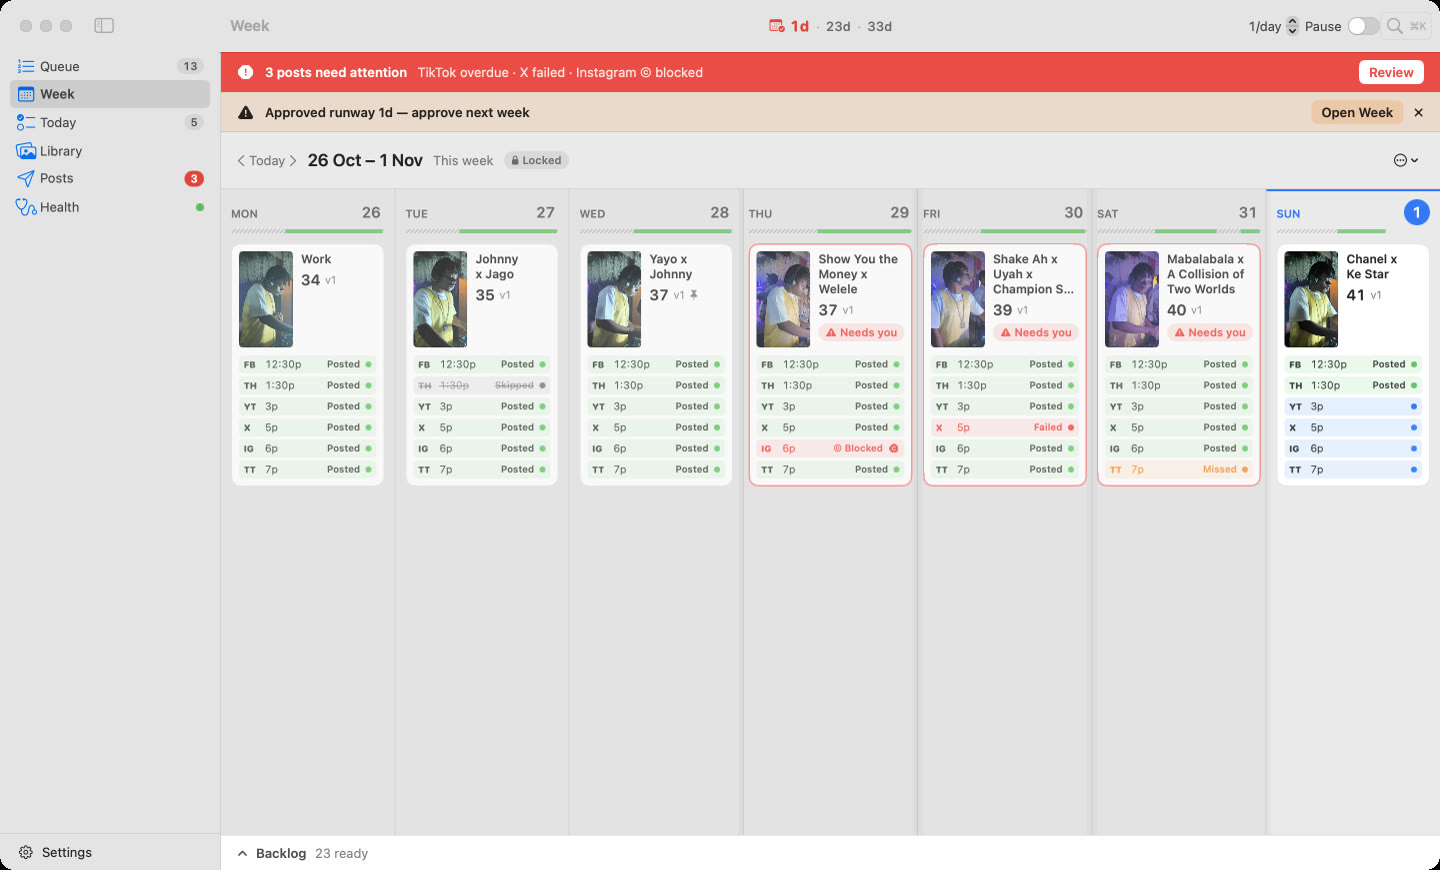
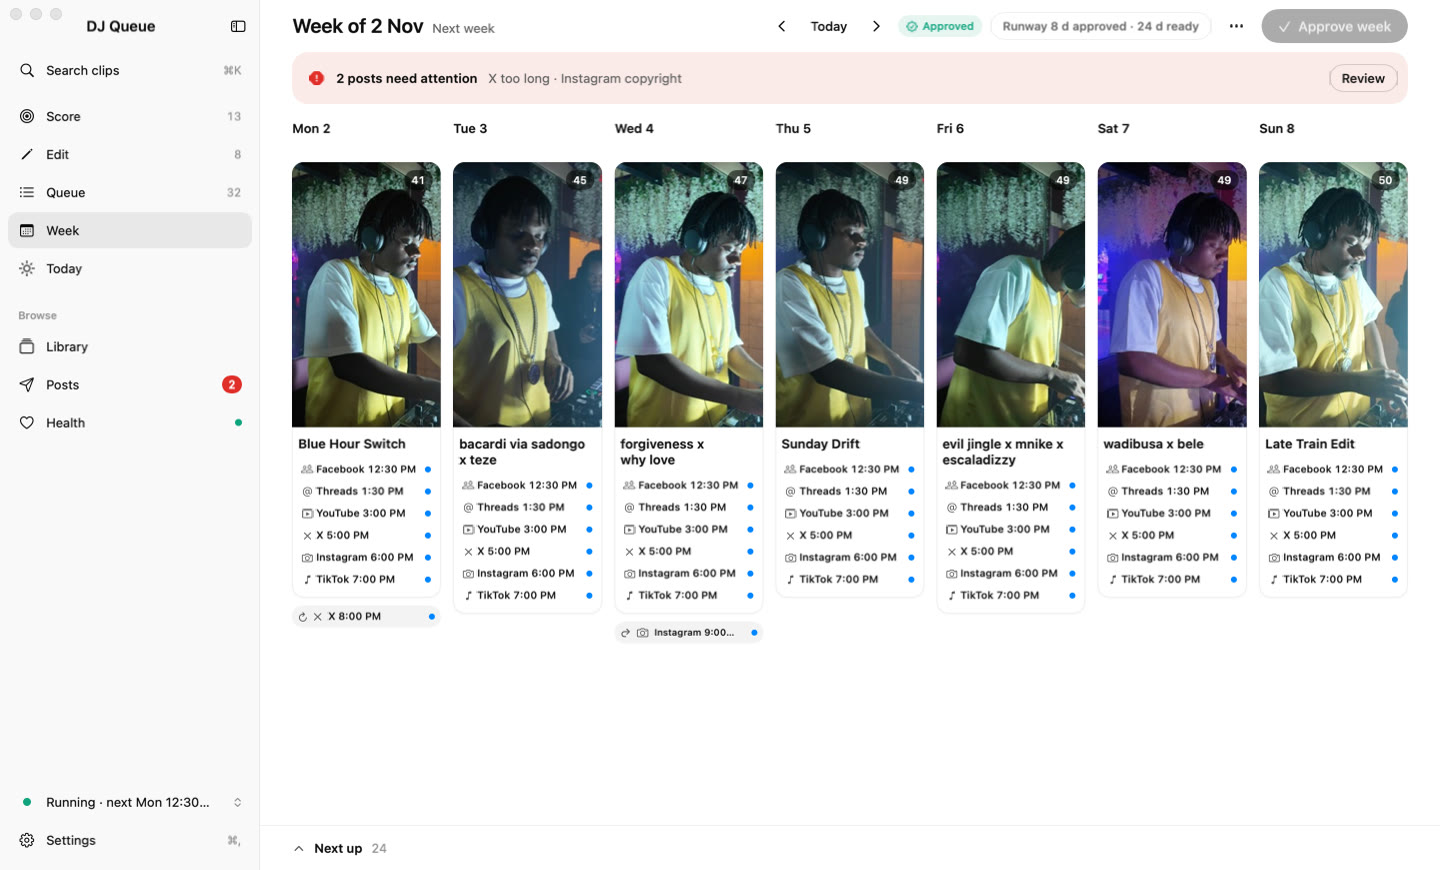
README: round-2 redesign — pipeline, design system, no in-app intelligence, agent access, new screenshots

diff --git a/README.md b/README.md
@@ -2,28 +2,36 @@
 
 A native macOS app that runs my DJ content pipeline: it turns raw 4K clips from a DJ set into vertical short-form videos, plans what posts where and when across six platforms, renders the final files in the background, and tracks every post — including missed slots, failures and copyright blocks.
 
-Built for my own use as DJ Lovd (TikTok, Instagram, Facebook, YouTube Shorts, Threads, X). SwiftUI + AVFoundation + SQLite + ffmpeg, ~18k lines, 142 automated tests. Designed, specified and shipped in one day with a team of AI coding agents that I directed — see [How it was built](#how-it-was-built).
+Built for my own use as DJ Lovd (TikTok, Instagram, Facebook, YouTube Shorts, Threads, X). SwiftUI + AVFoundation + SQLite + ffmpeg, 187 automated tests. Designed, specified and shipped with a team of AI coding agents that I directed — v1 in one day, then a full redesign the next — see [How it was built](#how-it-was-built).
 
 ![Queue](docs/screenshots/queue.jpg)
 
 ## What it does
 
+The app follows a clip's life — **Score → Edit → Queue → Week → Today** — with one job and one primary action per screen, on a calm, rounded design system modelled on ChatGPT's look and shadcn/ui component anatomy.
+
 - **Intake** — watches my session folders; every clip exported from my CapCut markers shows up automatically. Renamed files are re-found by content fingerprint; deleted files are flagged, never lost.
-- **Score & queue** — I score each clip 0–100; the queue orders the backlog worst → best (to warm up new accounts) or best → worst.
-- **Vertical editor** — crop a 4K 16:9 frame to 9:16, trim to my original markers, add overlay text (prefilled from the clip's tag), captions with per-platform character limits and auto hashtags, a cover frame, and versions for reposts.
+- **Score & queue** — I score each clip 0–100 on a large autoplaying preview; the queue orders the backlog worst → best (to warm up new accounts) or best → worst. Every list has Cards / Grid / Single / List views with muted autoplay from small background-generated proxies.
+- **Vertical editor** — crop a 4K 16:9 frame to 9:16, trim starting on my original markers (with grace to extend), overlay text, captions with per-platform limits, a cover frame, versions for reposts, multi-platform safe zones and realistic phone previews of each platform's UI with the real caption and handle.
+- **No intelligence in the app, by design** — the app is a UI over scripts. Song names and titles come from metadata my agents write (`title_suggestions` in the manifest) and show up as chips; when a name is ambiguous, *Ask an agent* copies a ready-made prompt. Outside agents read and change everything through the `djq` CLI (JSON in/out), documented as a Claude skill.
+- **Defaults + bulk editing** — new-clip defaults for frame, trim, text, cover, captions and platforms (clips store only overrides, so changing a default updates every untouched clip); bulk actions with a confirmation sheet showing exactly what changes and one-step undo.
 - **Weekly approval** — the app proposes the next 7 days; I drag, swap, pin and approve. Only approved weeks ever post.
 - **Background engine** — runs at login, renders the approved week ahead of time (1080×1920 H.264, loudness-normalised to −14 LUFS), and notifies me when each platform post is due.
 - **Manual publisher (phase 1)** — a Today screen: drag the file into the upload page, copy the platform-specific caption, mark posted with the URL. Built behind a `Publisher` interface so an API publisher (Postiz) can replace it later without touching the rest.
 - **Failure handling** — missed slots shift that platform's plan without ever double-posting; failed posts re-queue the next day after a fix; copyright blocks are shown loudly and never auto-retried.
 - **Doctor** — `djq doctor` checks everything (manifests, missing files, renders, overdue posts, runway, DB integrity, disk, tools) and prints a report an AI agent can act on, paired with a skill that documents the safe fix for every finding.
 
-| Editor — text | Editor — captions |
+| Score | Edit |
 |---|---|
-| ![Editor text](docs/screenshots/editor-text.jpg) | ![Editor captions](docs/screenshots/editor-caption.jpg) |
+| ![Score](docs/screenshots/score.jpg) | ![Edit](docs/screenshots/edit.jpg) |
+| **Editor — platform previews** | **Editor — safe zones** |
+| ![Editor previews](docs/screenshots/editor-preview.jpg) | ![Editor zones](docs/screenshots/editor-zones.jpg) |
 | **Week** | **Today** |
 | ![Week](docs/screenshots/week.jpg) | ![Today](docs/screenshots/today.jpg) |
-| **Health** | **Menu bar** |
-| ![Health](docs/screenshots/health.jpg) | ![Menu bar](docs/screenshots/menubar.jpg) |
+| **Library** | **Settings — new clip defaults** |
+| ![Library](docs/screenshots/library.jpg) | ![Settings](docs/screenshots/settings-defaults.jpg) |
+
+*Screenshots use sample data and titles.*
 
 ## Architecture
 
@@ -73,6 +81,7 @@ I wrote the product spec, then directed AI coding agents (Claude Code) through a
 2. **Contracts, then parallel work** — a foundation layer and an API contract (`ARCHITECTURE.md`), then four agents building in parallel on separate branches with disjoint file ownership: renderer, engine + CLI + Doctor, main UI, editor.
 3. **Independent review on every branch** — a fresh reviewer agent per milestone checked spec fidelity and code quality, with probes. Real bugs caught this way: a double-post path after a missed day, an edit hash that would have re-rendered and overwritten files whenever a platform was toggled, a DST off-by-an-hour, trim handles that stuck, crop maths 1 px off the export.
 4. **Integration and a final end-to-end review** against the spec's acceptance criteria on my real clips, with screenshots of every screen beside its reference, then ship.
+5. **Round 2 — redesign from my own usage notes.** After scoring my first set I staged 14 changes (too "rectangly", no bulk editing, unclear controls, the app guessing names). They were turned into a new design lock (`design/DESIGN-v2.md`), a SwiftUI design system (`design/DESIGN-SYSTEM.md`), a core rework (defaults with override semantics, bulk ops with an undo journal, proxies, an agent API) and rebuilt screens — again in parallel branches with independent reviews, a lossless schema migration verified against my real data, and a final end-to-end review. Decisions are logged in `DECISIONS-R2.md` and `design/*-DECISIONS*.md`.
 
 The commit history shows that flow (`Co-Authored-By` lines mark agent-written commits). Design artifacts are in `design/` (`INVENTORY.md`, `DESIGN.md`, `REFS.md`, text-style mockups) and the decision page is `DECISIONS.html` (its third-party reference images aren't published).
 
@@ -81,7 +90,7 @@ The commit history shows that flow (`Co-Authored-By` lines mark agent-written co
 Requires macOS 15+, a Swift 6 toolchain (Xcode or Command Line Tools) and `ffmpeg` (`brew install ffmpeg`).
 
 ```bash
-swift build && swift test                  # 142 tests
+swift build && swift test                  # 187 tests
 scripts/build-app.sh                       # builds "build/DJ Queue.app" with the djq CLI inside
 scripts/build-app.sh --install             # copies to ~/Applications and links ~/bin/djq
 ```
@@ -97,13 +106,15 @@ Sources/DJQCore/        core library — models, store, intake, captions, valida
 Sources/djq/            CLI
 Sources/DJQueueApp/     SwiftUI app — queue, week, today, library, posts, health, settings, editor, menu bar
 Tests/DJQCoreTests/     Swift Testing suite
-skills/                 Claude skill for the Doctor report
-design/                 inventory, design spec, mockups
+Sources/DJQueueApp/DesignSystem/  tokens + components (shadcn-style anatomy in SwiftUI)
+skills/                 Claude skills: Doctor report, agent access via djq
+scripts/prefill_titles.py  upstream title-suggestion formatter for agents
+design/                 inventory, design specs v1/v2, design system, decision logs
 ```
 
 ## Status
 
-Phase 1 (manual publishing) is in daily use. Next: a Postiz publisher so posts go out with the Mac off, then analytics and opt-in reposting of underperforming posts.
+Phase 1 (manual publishing) is in daily use, redesigned in round 2. Next: a Postiz publisher so posts go out with the Mac off, then analytics and opt-in reposting of underperforming posts.
 
 ## License
 
